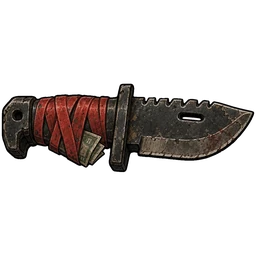
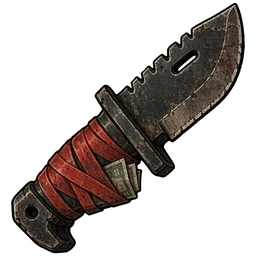
Нож: повёрнут на 45°, лезвием вверх
Claude-Session: https://claude.ai/code/session_01XtpZhZabEYUcJEQKQgYpHe

diff --git a/src/client/preload.ts b/src/client/preload.ts
@@ -9,7 +9,7 @@ import { ASSET_FILES } from "./asset-manifest.ts";
 import { ROOM_BACKDROP, ROOM_BG } from "../content/home-scene.ts";
 
 /** cache-busting versions of redrawn art (bump when the picture changes) */
-export const ART_VER = { heroPart: 26, hair: 8, wear: 30, items: 42, pepe: 2, tattoo: 21, monitor: 2, chair: 10, shop: 3 } as const;
+export const ART_VER = { heroPart: 26, hair: 8, wear: 30, items: 43, pepe: 2, tattoo: 21, monitor: 2, chair: 10, shop: 3 } as const;
 
 /** the URL a screen really requests for a file from the manifest */
 export function usedUrl(path: string): string {

diff --git a/tools/items/cut-white.py b/tools/items/cut-white.py
@@ -9,6 +9,8 @@ from PIL import Image
 from scipy import ndimage
 
 HERE = os.path.dirname(os.path.abspath(__file__))
+# turned before the square: degrees counter-clockwise (the knife — blade up at 45°, the user 2026-11-20)
+ROTATE = {"keyboard": 45}
 OUT = os.path.abspath(os.path.join(HERE, "..", "..", "public", "assets", "items"))
 for name in sys.argv[1:]:
     a = np.asarray(Image.open(os.path.join(HERE, "source", f"{name}.png")).convert("RGB"), dtype=np.float32)
@@ -18,6 +20,9 @@ for name in sys.argv[1:]:
     alpha = np.clip((ndimage.gaussian_filter((~bg).astype(np.float32), 0.8) - 0.15) / 0.7, 0, 1)
     im = Image.fromarray(np.dstack([a, alpha * 255]).astype(np.uint8))
     im = im.crop(im.getbbox())
+    if name in ROTATE:
+        im = im.rotate(ROTATE[name], resample=Image.BICUBIC, expand=True)
+        im = im.crop(im.getbbox())
     side = max(im.size) + 12
     sq = Image.new("RGBA", (side, side), (0, 0, 0, 0))
     sq.alpha_composite(im, ((side - im.width) // 2, (side - im.height) // 2))
